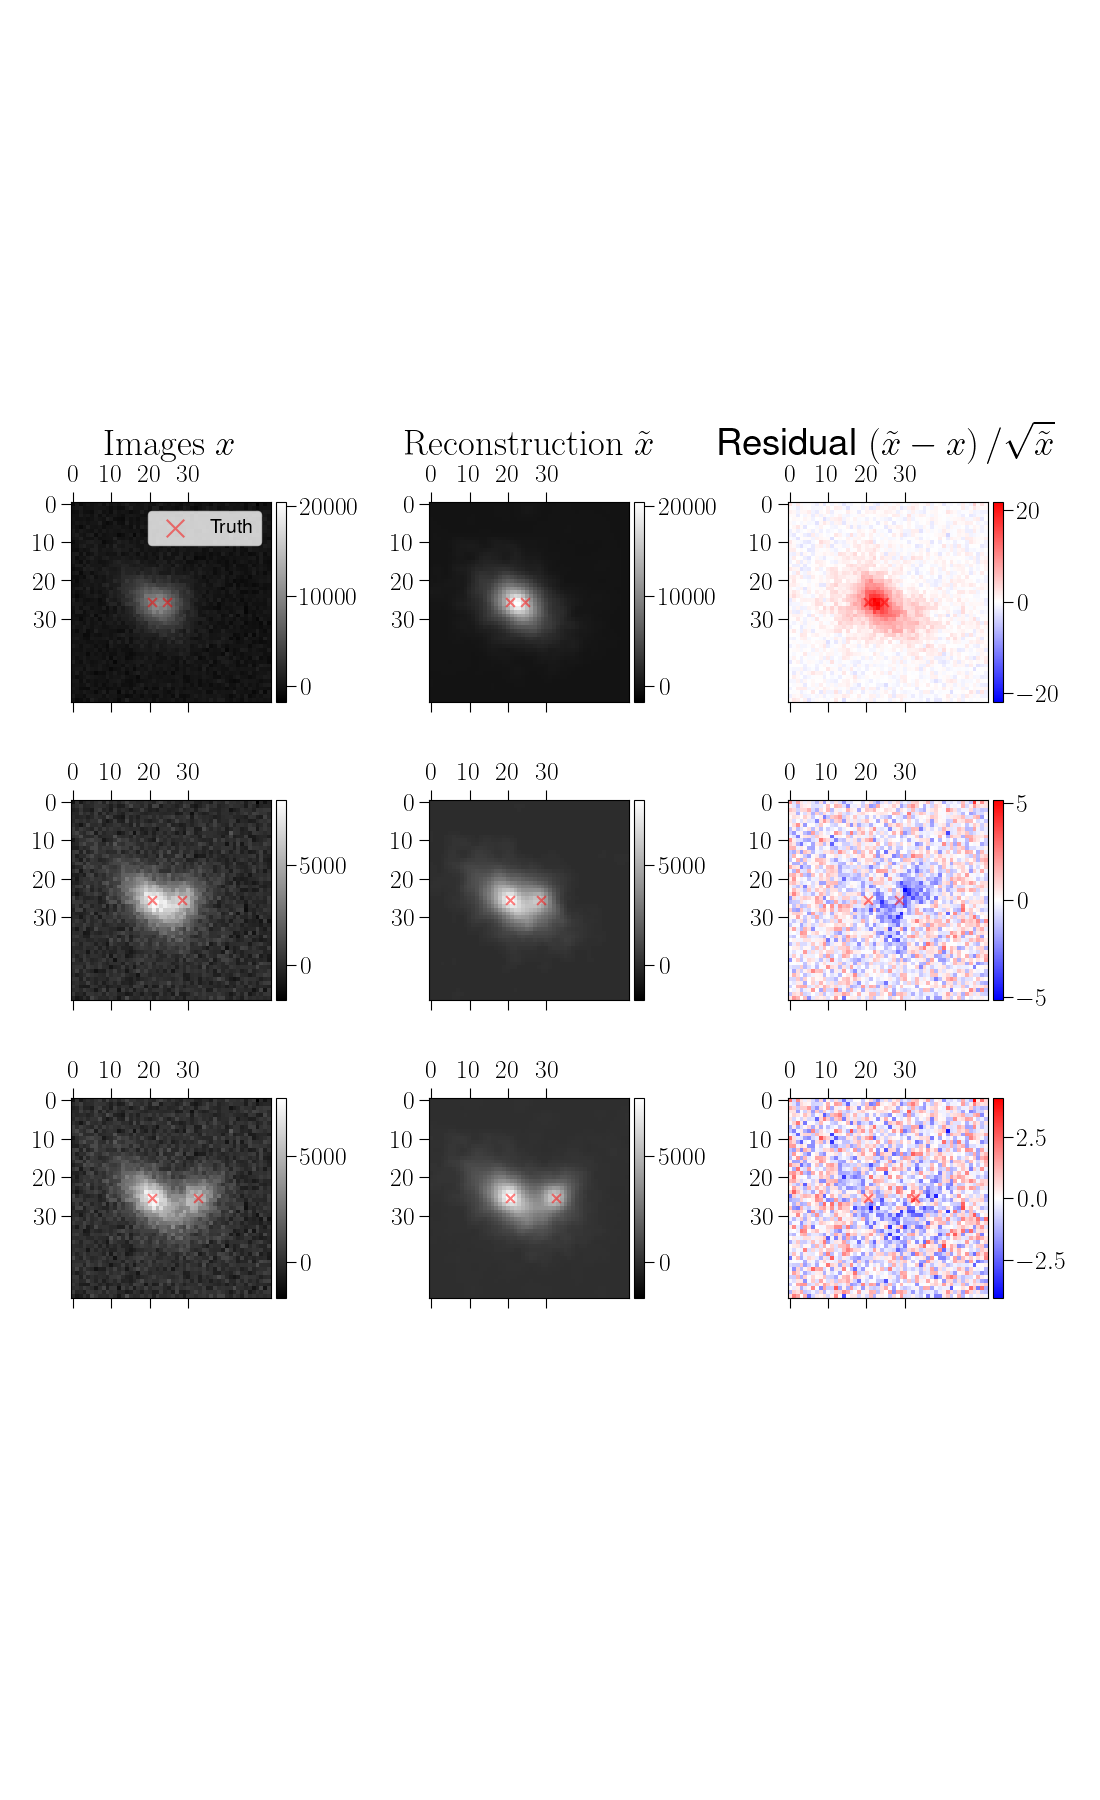
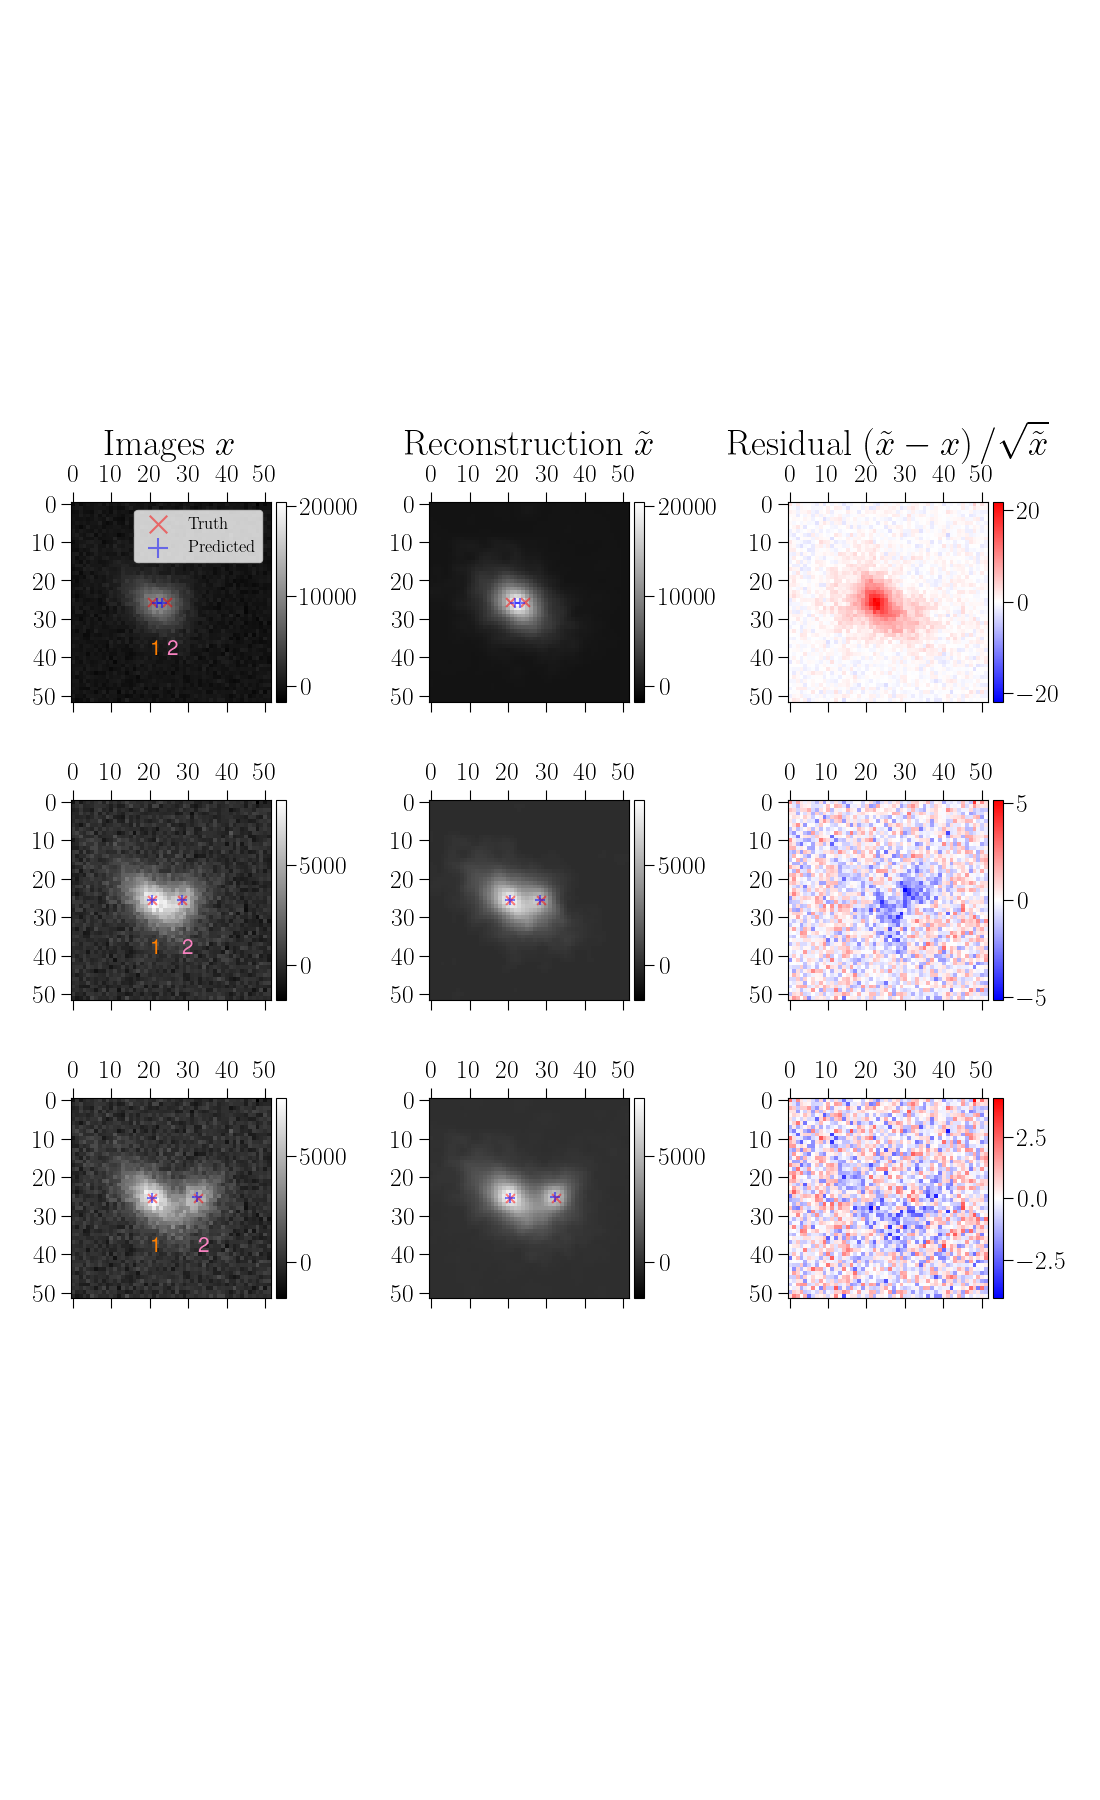
make residual figure better so the three separatiosn one is superfluous

diff --git a/experiment/scripts_figures/toy_figures.py b/experiment/scripts_figures/toy_figures.py
@@ -260,8 +260,13 @@ class ToySeparationFigure(BlissFigure):
         n_examples = 3
         bp = 24
         seps_to_plot = [4, 8, 12]
-        seps = data["seps"]
+        seps: np.ndarray = data["seps"]
         tplocs: np.ndarray = data["truth"]["plocs"]
+        eplocs: np.ndarray = data["est"]["plocs"]
+
+        c1 = plt.rcParams["axes.prop_cycle"].by_key()["color"][1]  # true
+        c2 = plt.rcParams["axes.prop_cycle"].by_key()["color"][3]  # predicted
+
         images_all, recon_all, res_all = data["images"], data["recon"], data["resid"]
         trim = 10
         indices = np.array([list(seps).index(psep) for psep in seps_to_plot]).astype(int)
@@ -269,8 +274,11 @@ class ToySeparationFigure(BlissFigure):
         images = images_all[indices, 0, trim + 10 : -trim - 10, trim + 15 : -trim - 5]
         recons = recon_all[indices, 0, trim + 10 : -trim - 10, trim + 15 : -trim - 5]
         residuals = res_all[indices, 0, trim + 10 : -trim - 10, trim + 15 : -trim - 5]
+
         x1 = tplocs[indices, :, 1] + bp - 0.5 - trim - 15
         y1 = tplocs[indices, :, 0] + bp - 0.5 - trim - 10
+        x2 = eplocs[indices, :, 1] + bp - 0.5 - trim - 15
+        y2 = eplocs[indices, :, 0] + bp - 0.5 - trim - 10
 
         pad = 6.0
         fig, axes = plt.subplots(nrows=n_examples, ncols=3, figsize=(11, 18))
@@ -285,12 +293,21 @@ class ToySeparationFigure(BlissFigure):
                 ax_true.set_title(r"\rm Images $x$", pad=pad)
                 ax_recon.set_title(r"\rm Reconstruction $\tilde{x}$", pad=pad)
                 ax_res.set_title(
-                    r"Residual $\left(\tilde{x} - x\right) / \sqrt{\tilde{x}}$", pad=pad
+                    r"\rm Residual $\left(\tilde{x} - x\right) / \sqrt{\tilde{x}}$", pad=pad
                 )
 
-            ax_true.scatter(x1[i], y1[i], color="r", alpha=0.5, s=40, marker="x", label="Truth")
+            ax_true.scatter(
+                x1[i], y1[i], color="r", alpha=0.5, s=40, marker="x", label=r"\rm Truth"
+            )
             ax_recon.scatter(x1[i], y1[i], color="r", alpha=0.5, s=40, marker="x")
-            ax_res.scatter(x1[i], y1[i], color="r", alpha=0.5, s=40, marker="x")
+
+            ax_true.scatter(
+                x2[i], y2[i], color="b", alpha=0.5, s=55, marker="+", label=r"\rm Predicted"
+            )
+            ax_recon.scatter(x2[i], y2[i], color="b", alpha=0.5, s=55, marker="+")
+
+            ax_true.text(x1[i, 0].item(), y1[i, 0].item() + 14, "1", color=c1, fontsize=15)
+            ax_true.text(x1[i, 1].item(), y1[i, 1].item() + 14, "2", color=c2, fontsize=15)
 
             # standarize ranges of true and reconstruction
             image = images[i]
@@ -308,15 +325,16 @@ class ToySeparationFigure(BlissFigure):
             plot_image(fig, ax_recon, recon, vrange=(vmin, vmax))
             plot_image(fig, ax_res, res, vrange=(-vres, vres), cmap="bwr")
 
-            ax_true.set_xticks([0, 10, 20, 30])
-            ax_true.set_yticks([0, 10, 20, 30])
-            ax_recon.set_xticks([0, 10, 20, 30])
-            ax_recon.set_yticks([0, 10, 20, 30])
-            ax_res.set_xticks([0, 10, 20, 30])
-            ax_res.set_yticks([0, 10, 20, 30])
+            _ticks = [0, 10, 20, 30, 40, 50]
+            ax_true.set_xticks(_ticks)
+            ax_true.set_yticks(_ticks)
+            ax_recon.set_xticks(_ticks)
+            ax_recon.set_yticks(_ticks)
+            ax_res.set_xticks(_ticks)
+            ax_res.set_yticks(_ticks)
 
             if i == 0:
-                ax_true.legend(loc="best", prop={"size": 14}, markerscale=2)
+                ax_true.legend(loc="best", prop={"size": 12}, markerscale=2)
 
         plt.subplots_adjust(hspace=-0.9)
         plt.tight_layout()
